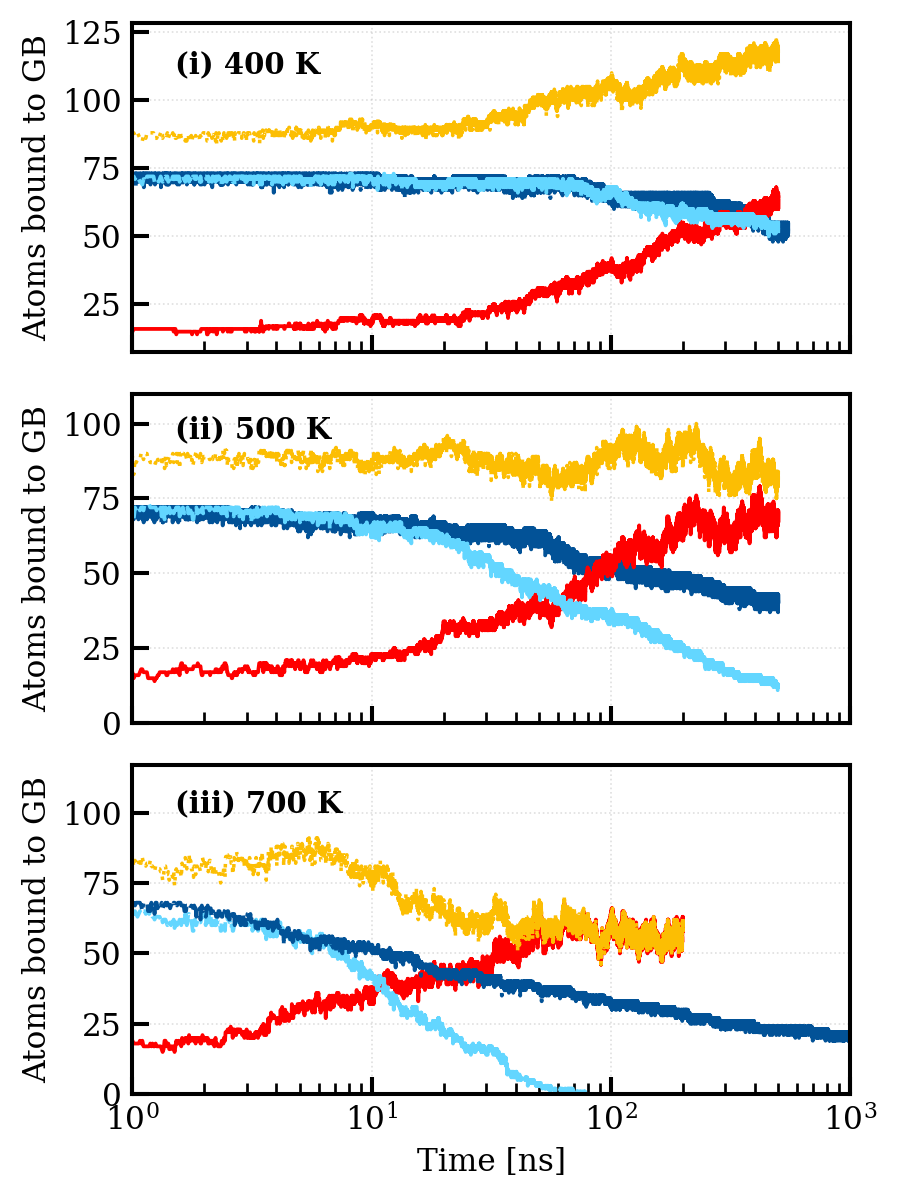
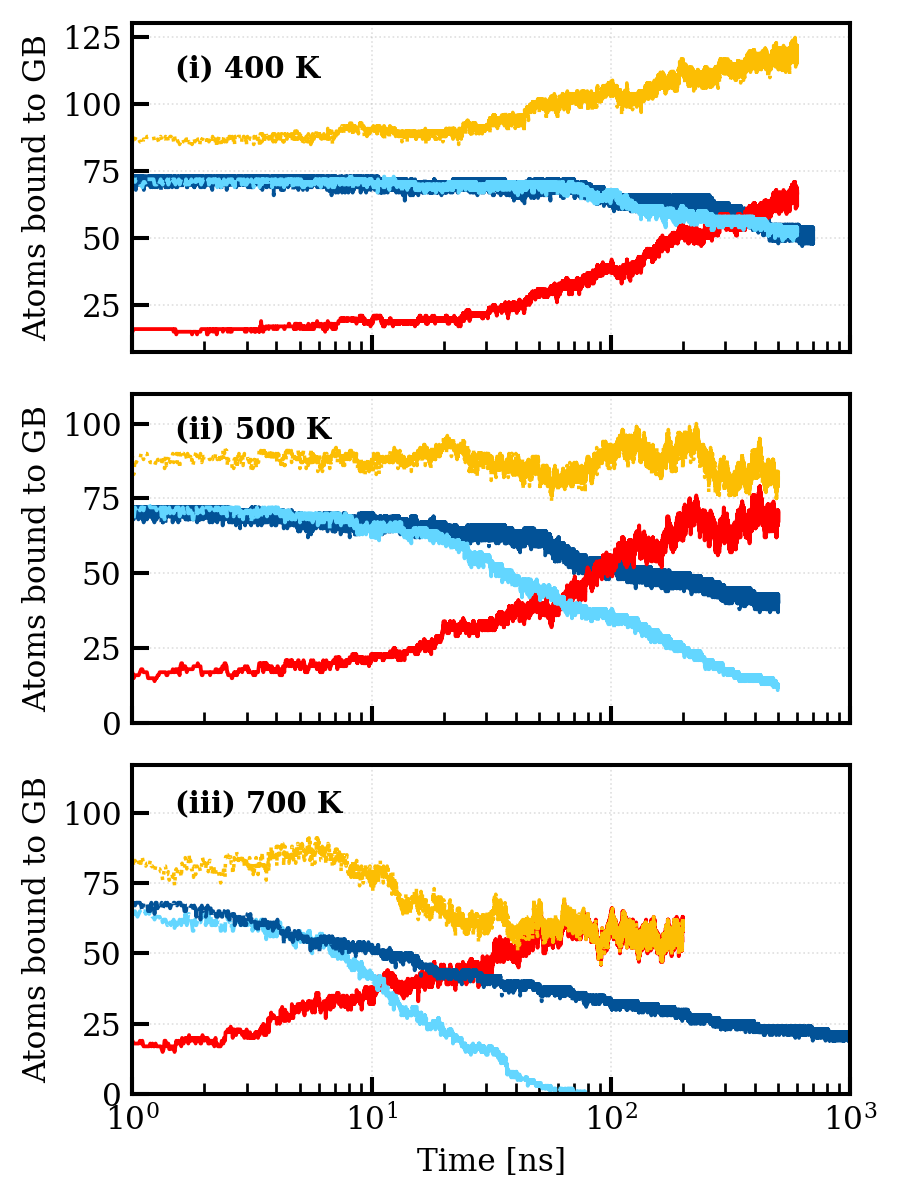
update GB plots

diff --git a/plotting-scripts/plot_GB_isoEx_comp.py b/plotting-scripts/plot_GB_isoEx_comp.py
@@ -9,8 +9,8 @@ from dataUtils import readData
 path += 'GB_3000W_isoEx_results/'
 
 # HinVac.out format: Timestep NTinVac NHinVac NTinCell
-tTH_isoEx_400K = readData(path+'yGB_3000W_100H_73T_400K_500ns/HinGB.out', [0,1,2])
-tT_diff_400K = readData(path+'yGB_3000W_0H_73T_400K_550ns/HinGB.out', [0,1])
+tTH_isoEx_400K = readData(path+'yGB_3000W_100H_73T_400K_600ns/HinGB.out', [0,1,2])
+tT_diff_400K = readData(path+'yGB_3000W_0H_73T_400K_700ns/HinGB.out', [0,1])
 tTH_isoEx_500K = readData(path+'yGB_3000W_100H_73T_500K_500ns/HinGB.out', [0,1,2])
 tT_diff_500K = readData(path+'yGB_3000W_0H_73T_500K_500ns/HinGB.out', [0,1])
 tTH_isoEx_700K = readData(path+'yGB_3000W_100H_73T_700K_200ns/HinGB.out', [0,1,2])
@@ -57,8 +57,6 @@ plotter(tTH_isoEx_400K[init:final:step, 0], tTH_isoEx_400K[init:final:step,1]+tT
 plt.xlim((1, xulim))
 plt.ylabel(ylbl)
 plt.text(40, 113, '(i) 400 K', font)
-leg = plt.legend(loc='upper right', bbox_to_anchor=(0.999, 0.999), framealpha=0.8)
-leg.get_frame().set_linewidth(1.5*pltm)  # Legend bow linewidth 
 plt.gca().axes.get_xaxis().set_ticklabels([]) # Hide x-axis tick labels
 
 # 500 K
@@ -71,6 +69,8 @@ plt.xlim((1, xulim))
 plt.ylim((0, 125))
 plt.ylabel(ylbl)
 plt.text(40, 109, '(ii) 500 K', font)
+leg = plt.legend(loc='upper right', bbox_to_anchor=(0.999, 0.999), framealpha=0.8)
+leg.get_frame().set_linewidth(1.5*pltm)  # Legend bow linewidth 
 plt.gca().axes.get_xaxis().set_ticklabels([]) # Hide x-axis tick labels
 
 # 700 K
